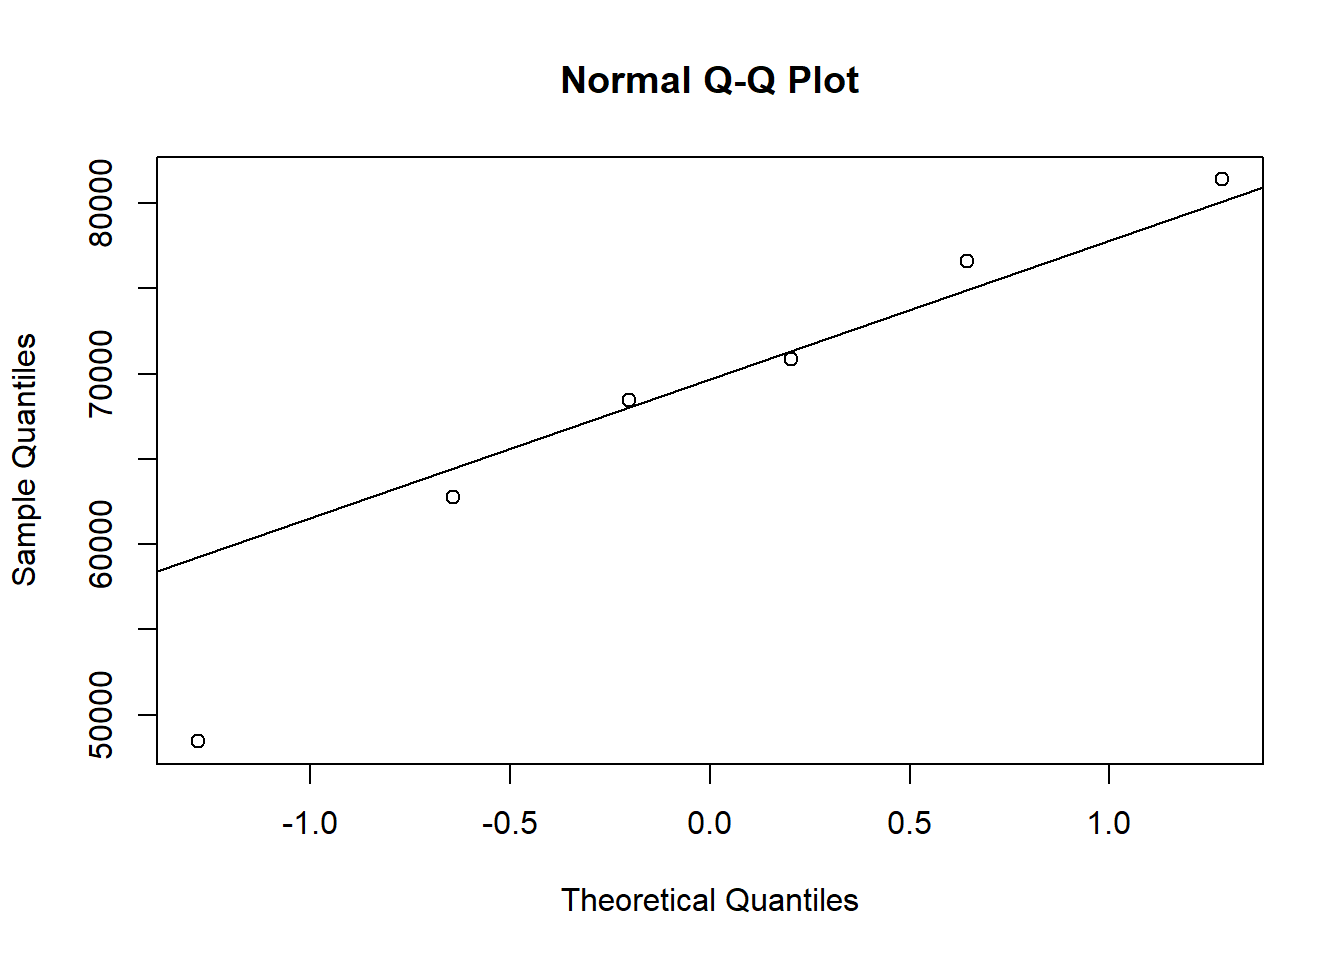
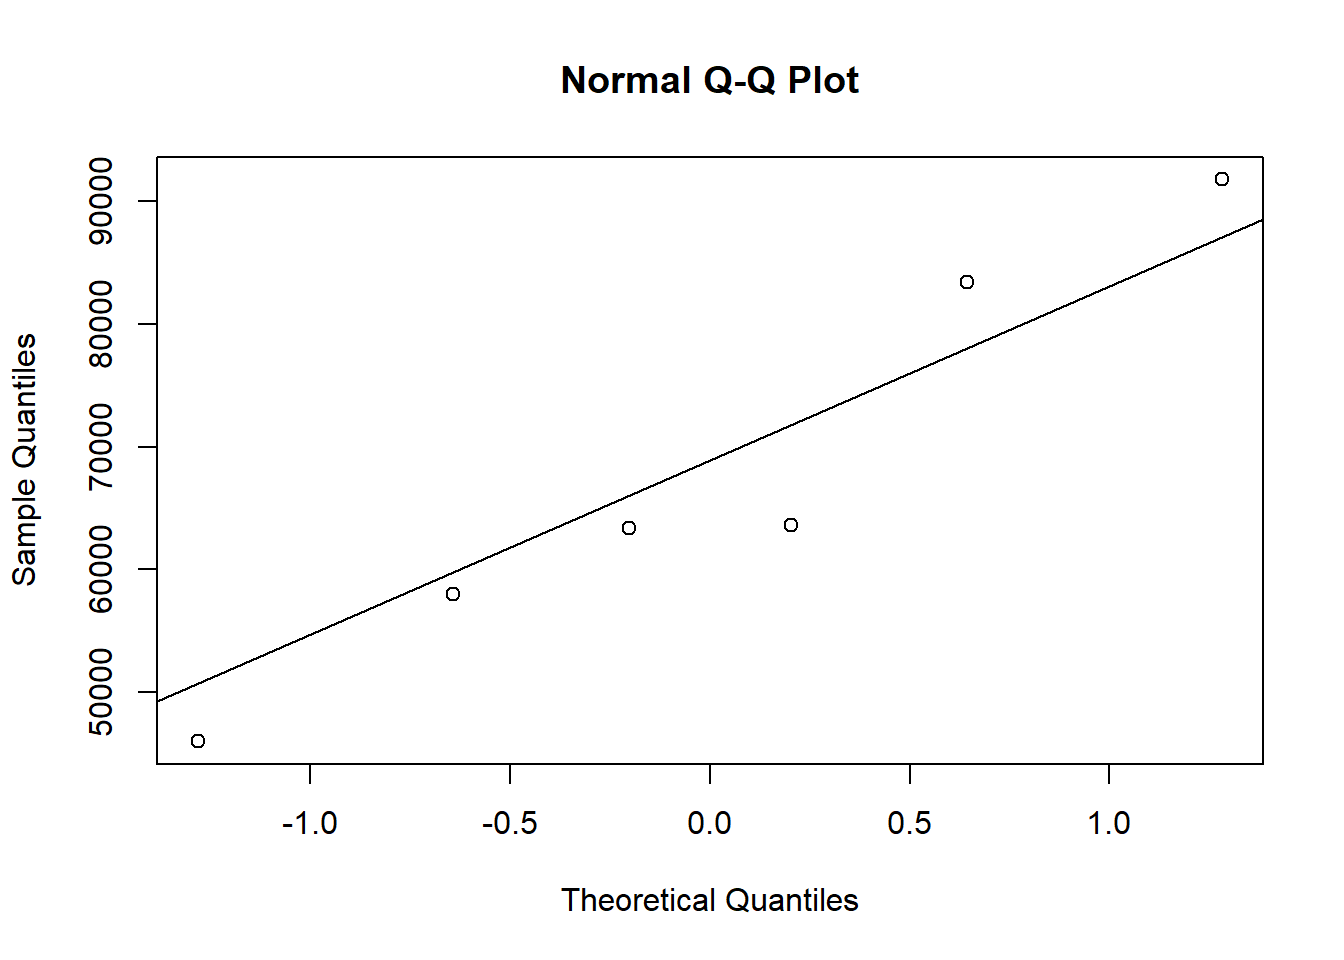
_

diff --git a/docs/Homework-6.html b/docs/Homework-6.html
@@ -289,21 +289,22 @@ lavage fluid (BALF).</p>
 <p>#To start simply, assume that the data in each of your treatment
 groups follow a normal distribution. Specify the sample sizes, means,
 and variances for each group that would be reasonable if your hypothesis
-were true. From one of my experimenst:</p>
+were true. From one of my experiments:</p>
 <p>#Using as reference, for my personal data the mean intensity of SPC
 band in the PBS groups is 61251 whith standard deviation of 15314 and
 for Bleo group mean 31146 and standard deviation of 7724</p>
-<pre class="r"><code>PBS &lt;-rnorm(n=6, mean = 61251, sd = 15314)
+<pre class="r"><code>#first start using as reference some mean and standard deviation from my experiments
+PBS &lt;-rnorm(n=6, mean = 61251, sd = 15314)
 BLEO &lt;-rnorm(n=6, mean = 31146, sd = 7724)
 my_frame &lt;- data.frame(PBS,BLEO)
 print(my_frame)</code></pre>
 <pre><code>##        PBS     BLEO
-## 1 68443.59 27585.61
-## 2 70857.40 16481.93
-## 3 48447.41 38494.53
-## 4 62765.43 12571.00
-## 5 76591.72 24569.08
-## 6 81389.35 31016.48</code></pre>
+## 1 83439.83 33278.50
+## 2 63624.20 21459.41
+## 3 58042.04 37524.94
+## 4 46021.21 32192.50
+## 5 63345.55 27573.23
+## 6 91753.23 25853.63</code></pre>
 <p>#Bellow used some tools that are described to be used to determine if
 distribution is normal. Although my sample number is small and perhaps
 not ideal for this type of analysis</p>
@@ -312,10 +313,10 @@ not ideal for this type of analysis</p>
 ##  Shapiro-Wilk normality test
 ## 
 ## data:  PBS
-## W = 0.95188, p-value = 0.7555</code></pre>
+## W = 0.93783, p-value = 0.6418</code></pre>
 <pre class="r"><code>summary(PBS)</code></pre>
 <pre><code>##    Min. 1st Qu.  Median    Mean 3rd Qu.    Max. 
-##   48447   64185   69651   68082   75158   81389</code></pre>
+##   46021   59368   63485   67704   78486   91753</code></pre>
 <pre class="r"><code>hist(PBS)</code></pre>
 <p><img src="Homework-6_files/figure-html/unnamed-chunk-2-1.png" width="672" /></p>
 <pre class="r"><code>qqnorm(PBS)
@@ -326,10 +327,10 @@ qqline(PBS)</code></pre>
 ##  Shapiro-Wilk normality test
 ## 
 ## data:  PBS
-## W = 0.95188, p-value = 0.7555</code></pre>
+## W = 0.93783, p-value = 0.6418</code></pre>
 <pre class="r"><code>summary(BLEO)</code></pre>
 <pre><code>##    Min. 1st Qu.  Median    Mean 3rd Qu.    Max. 
-##   12571   18504   26077   25120   30159   38495</code></pre>
+##   21459   26284   29883   29647   33007   37525</code></pre>
 <pre class="r"><code>hist(BLEO)</code></pre>
 <p><img src="Homework-6_files/figure-html/unnamed-chunk-3-1.png" width="672" /></p>
 <pre class="r"><code>qqnorm(BLEO)
@@ -346,18 +347,18 @@ Experimental_group &lt;- c(rep(&quot;PBS&quot;, length(PBS)),rep(&quot;BLEO&quot
 d_frame &lt;- data.frame(SPC_intensity, Experimental_group)
 print(d_frame)</code></pre>
 <pre><code>##    SPC_intensity Experimental_group
-## 1       68443.59                PBS
-## 2       70857.40                PBS
-## 3       48447.41                PBS
-## 4       62765.43                PBS
-## 5       76591.72                PBS
-## 6       81389.35                PBS
-## 7       27585.61               BLEO
-## 8       16481.93               BLEO
-## 9       38494.53               BLEO
-## 10      12571.00               BLEO
-## 11      24569.08               BLEO
-## 12      31016.48               BLEO</code></pre>
+## 1       83439.83                PBS
+## 2       63624.20                PBS
+## 3       58042.04                PBS
+## 4       46021.21                PBS
+## 5       63345.55                PBS
+## 6       91753.23                PBS
+## 7       33278.50               BLEO
+## 8       21459.41               BLEO
+## 9       37524.94               BLEO
+## 10      32192.50               BLEO
+## 11      27573.23               BLEO
+## 12      25853.63               BLEO</code></pre>
 </div>
 <div id="code-to-analyze-the-data.-used-t-test." class="section level1">
 <h1>Code to analyze the data. Used t-test.</h1>
@@ -369,13 +370,13 @@ print(t.test)</code></pre>
 ##  Welch Two Sample t-test
 ## 
 ## data:  SPC_intensity by Experimental_group
-## t = -7.0213, df = 9.6338, p-value = 4.383e-05
+## t = -5.2233, df = 6.159, p-value = 0.001818
 ## alternative hypothesis: true difference in means between group BLEO and group PBS is not equal to 0
 ## 95 percent confidence interval:
-##  -56667.12 -29258.30
+##  -55774.52 -20340.09
 ## sample estimates:
 ## mean in group BLEO  mean in group PBS 
-##           25119.77           68082.48</code></pre>
+##           29647.03           67704.34</code></pre>
 </div>
 <div id="generate-graph-with-the-data." class="section level1">
 <h1>Generate graph with the data.</h1>
@@ -395,7 +396,7 @@ your sample size be before you detect a significant pattern (p &lt;
 0.05)? How small can the differences between the groups be (the “effect
 size”) for you to still detect a significant pattern?</p>
 <pre class="r"><code>p_values &lt;- numeric(10)
-
+#set up so loops 10 times
 for (i in 1:10) {
   PBS &lt;-rnorm(n=6, mean = 61251, sd = 15314)
   BLEO &lt;-rnorm(n=6, mean = 31146, sd = 7724)
@@ -406,18 +407,53 @@ for (i in 1:10) {
   
   t_test &lt;-t.test(SPC_intensity~Experimental_group, data=d_frame)
   p_values[i] &lt;- t_test$p.value
+  #set up to print the p.value in each loop 
   print(t_test$p.value)
 }</code></pre>
-<pre><code>## [1] 0.00393175
-## [1] 0.001240942
-## [1] 0.0332162
-## [1] 0.006020717
-## [1] 0.006105761
-## [1] 0.0003354955
-## [1] 2.466972e-06
-## [1] 0.003775996
-## [1] 0.005028447
-## [1] 0.003922862</code></pre>
+<pre><code>## [1] 6.488157e-05
+## [1] 0.0302329
+## [1] 0.003560446
+## [1] 3.305496e-06
+## [1] 0.00803443
+## [1] 9.717801e-05
+## [1] 0.001402202
+## [1] 0.0003194318
+## [1] 2.023236e-05
+## [1] 0.03941872</code></pre>
+<pre class="r"><code>#used which function to determine which of the loops came out with significant value (&lt;0.05)
+  which(p_values&lt;=0.05)</code></pre>
+<pre><code>##  [1]  1  2  3  4  5  6  7  8  9 10</code></pre>
+<p>#what happens if you were to start with a small sample size and then
+re-run your analysis? Would you still get a significant result?</p>
+<pre class="r"><code>p_values &lt;- numeric(10)
+
+for (i in 1:10) {
+  PBS &lt;-rnorm(n=3, mean = 61251, sd = 15314)
+  BLEO &lt;-rnorm(n=3, mean = 31146, sd = 7724)
+  
+  SPC_intensity &lt;- c(PBS,BLEO)
+  Experimental_group &lt;- c(rep(&quot;PBS&quot;, length(PBS)),rep(&quot;BLEO&quot;,length(BLEO))) 
+  d_frame &lt;- data.frame(SPC_intensity, Experimental_group)
+  
+  t_test &lt;-t.test(SPC_intensity~Experimental_group, data=d_frame)
+  p_values[i] &lt;- t_test$p.value
+  print(t_test$p.value)
+}</code></pre>
+<pre><code>## [1] 0.009414424
+## [1] 0.000191604
+## [1] 0.09897118
+## [1] 0.1395168
+## [1] 0.02919039
+## [1] 0.01342052
+## [1] 0.001813153
+## [1] 0.1461985
+## [1] 0.01756974
+## [1] 0.0653405</code></pre>
+<pre class="r"><code>#bellow are the p values that are significant
+  which(p_values&lt;=0.05)</code></pre>
+<pre><code>## [1] 1 2 5 6 7 9</code></pre>
+<p>#In general when doing the loops. The proportion of significant p
+value was lower in the the case with smaller sample size.</p>
 </div>
 
 
